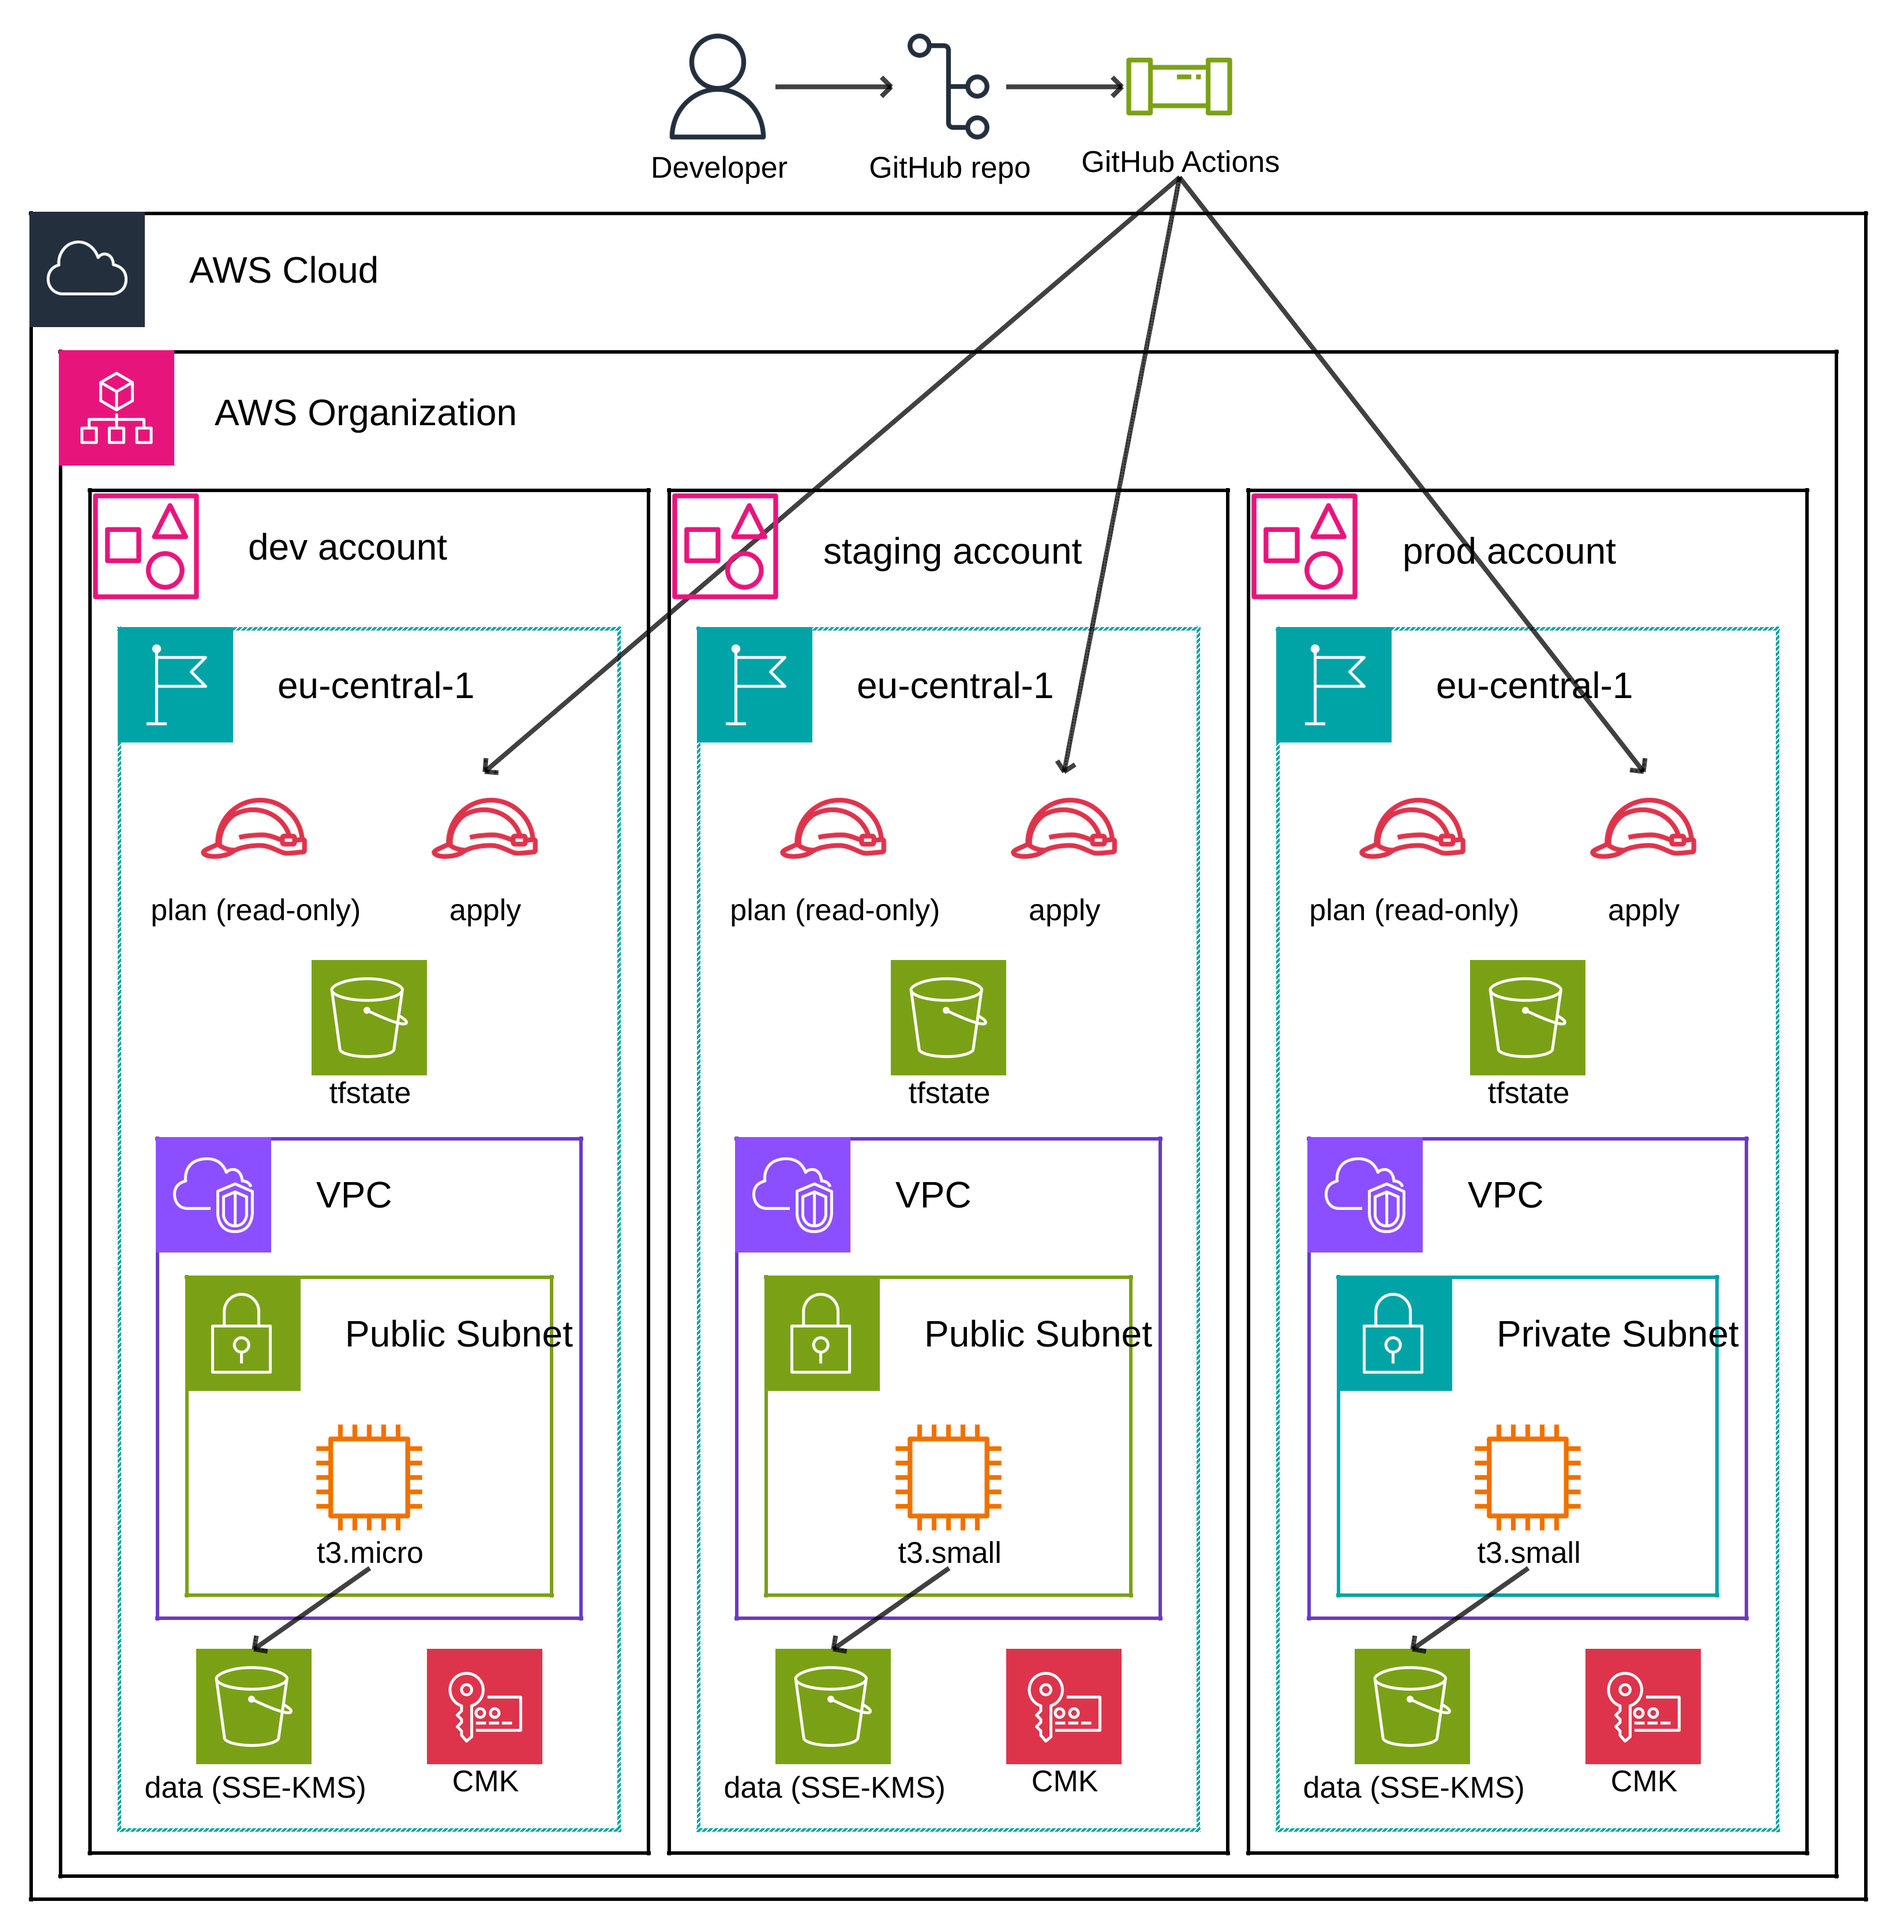
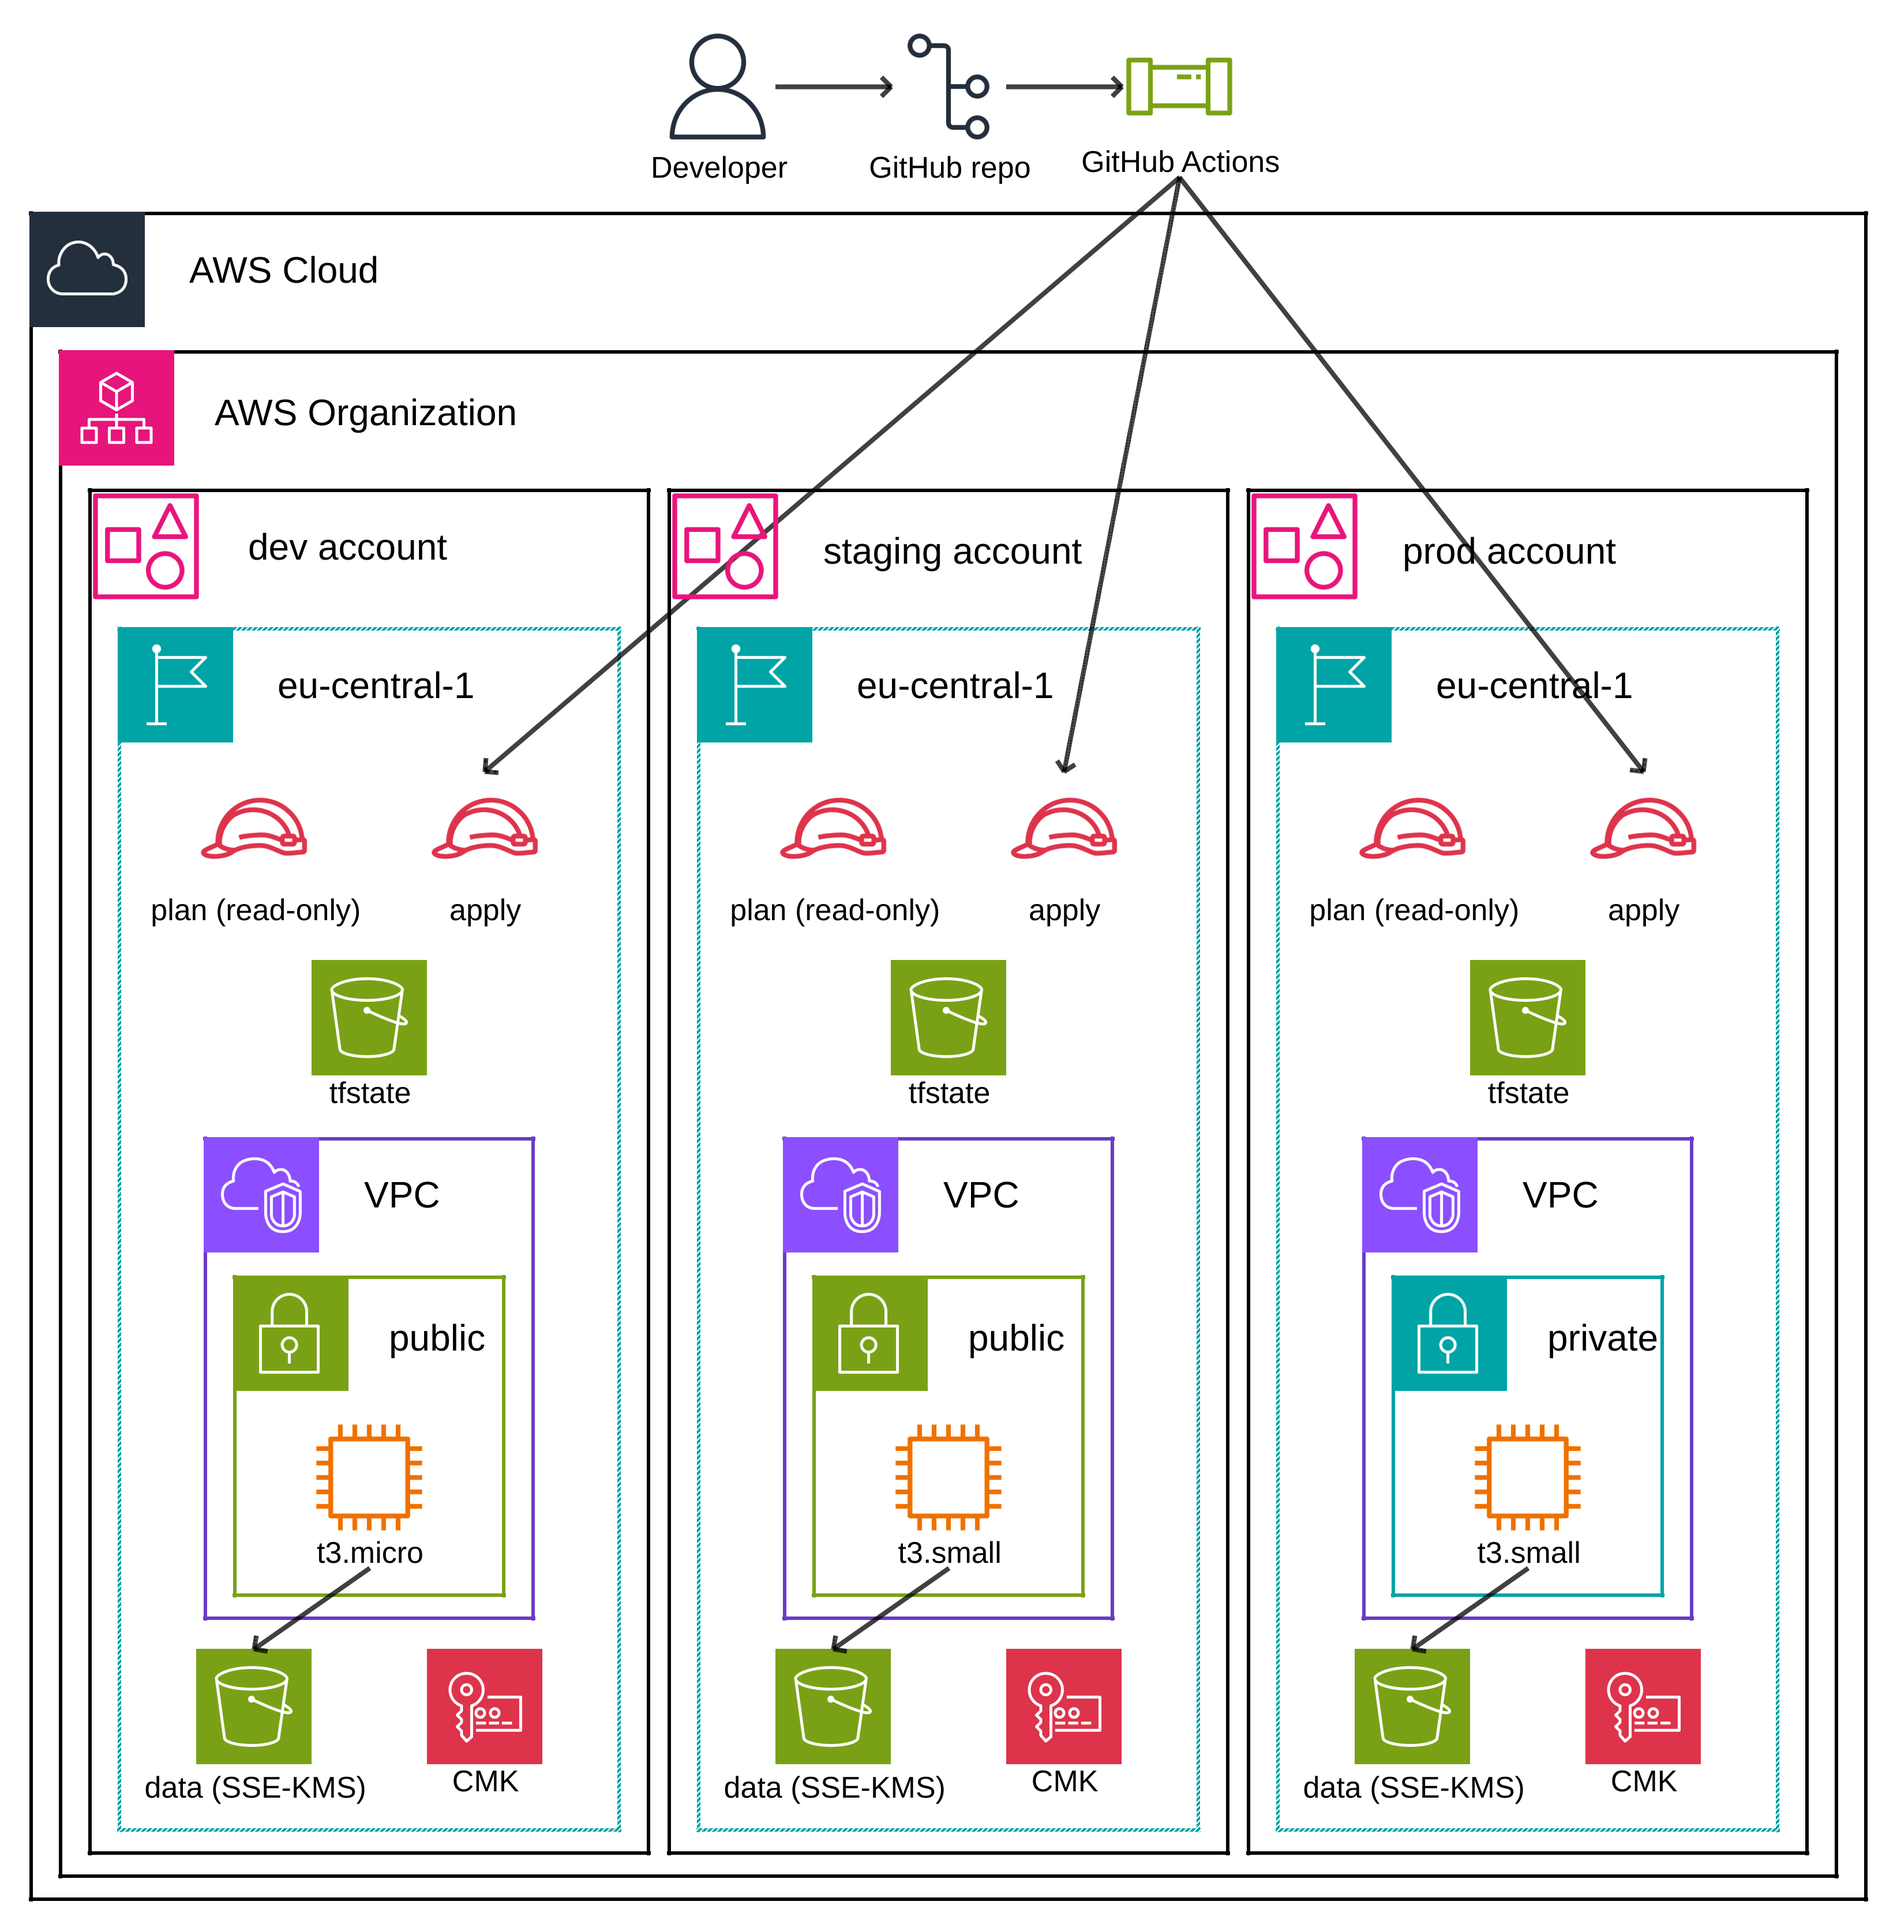
keep subnet labels inside their boxes
awsdac sizes a group to its children and ignores label width, so the
preset's "Public Subnet" spilled past a box holding a single icon.

Changed region(s): [[0.6825, 0.5925, 0.9307, 0.842], [0.3723, 0.5925, 0.6204, 0.842], [0.062, 0.5925, 0.3102, 0.842]]

diff --git a/docs/README.md b/docs/README.md
@@ -26,9 +26,12 @@ dev applies automatically, staging and prod each wait on a required reviewer.
 
 ## Layout notes
 
-`awsdac` lays leaf resources out on a fixed margin and does not measure label
-width, so long titles overrun their neighbours. Keep them to roughly fifteen
-characters; put the detail here instead.
+`awsdac` does not measure label width when sizing anything. Leaf resources lay
+out on a fixed margin, so long titles overrun their neighbours; group boxes are
+sized to their children, so a group whose label is wider than its contents
+spills past its own border. Both are fixed by shortening the title - hence
+`public` rather than the preset's `Public Subnet`, over a box holding one icon.
+Put the detail here instead.
 
 Group containers carry their own icon - `AWS::Diagram::Cloud` stamps an AWS
 logo on anything it wraps, which is wrong for a lane spanning GitHub and AWS.
